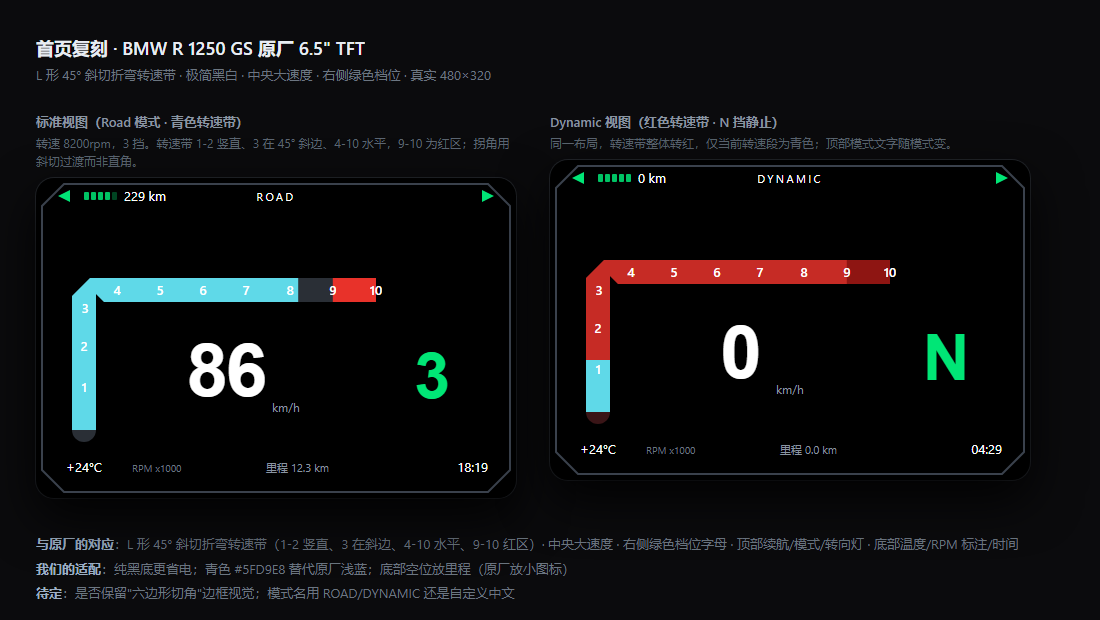
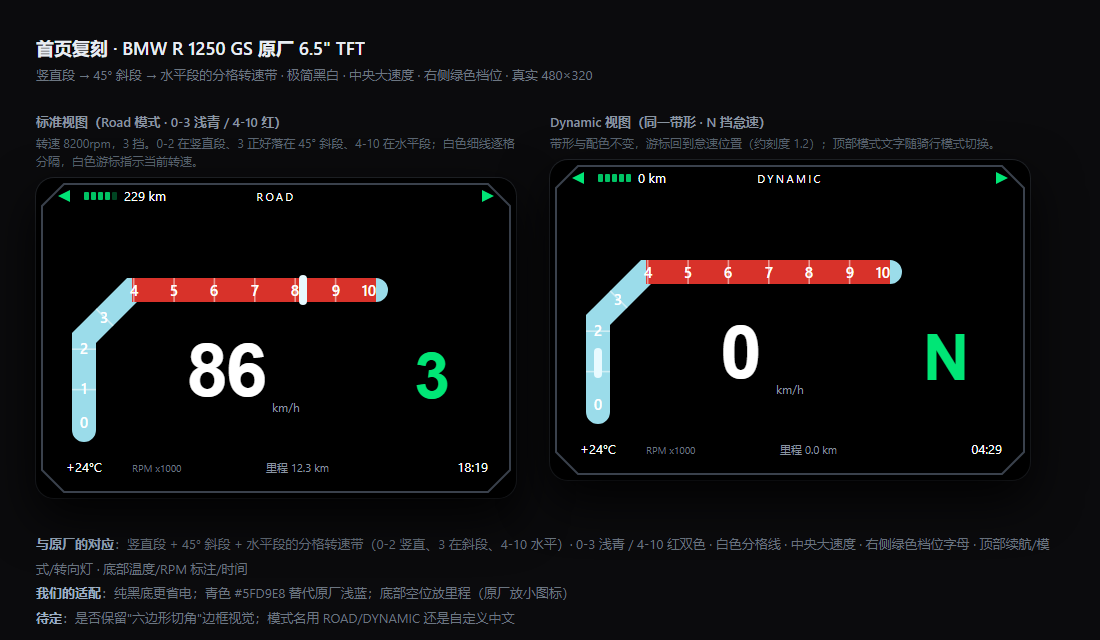
docs: 更新 BMW R 1250 GS 仪表 mockup 设计说明与实现

diff --git a/mockup/dash-gs.html b/mockup/dash-gs.html
@@ -30,14 +30,14 @@
 </head>
 <body>
   <h1 class="page-title">首页复刻 · BMW R 1250 GS 原厂 6.5" TFT</h1>
-  <p class="page-sub">L 形 45° 斜切折弯转速带 · 极简黑白 · 中央大速度 · 右侧绿色档位 · 真实 480×320</p>
+  <p class="page-sub">竖直段 → 45° 斜段 → 水平段的分格转速带 · 极简黑白 · 中央大速度 · 右侧绿色档位 · 真实 480×320</p>
 
   <div class="stage">
 
     <!-- ========== 标准视图 ========== -->
     <div class="frame">
-      <h2>标准视图（Road 模式 · 青色转速带）</h2>
-      <p>转速 8200rpm，3 挡。转速带 1-2 竖直、3 在 45° 斜边、4-10 水平，9-10 为红区；拐角用斜切过渡而非直角。</p>
+      <h2>标准视图（Road 模式 · 0-3 浅青 / 4-10 红）</h2>
+      <p>转速 8200rpm，3 挡。0-2 在竖直段、3 正好落在 45° 斜段、4-10 在水平段；白色细线逐格分隔，白色游标指示当前转速。</p>
       <div class="screen">
         <svg viewBox="0 0 480 320" width="480" height="320">
           <!-- 切角屏幕边框 -->
@@ -61,44 +61,42 @@
           <!-- 右转向灯 -->
           <path d="M458 18 L446 12 V24 Z" fill="#00E676"/>
 
-          <!-- ===== L 形转速带（外拐角真实切出 45° 斜角） ===== -->
-          <defs>
-            <!-- 带形多边形：(36,118)→(54,100) 为外角 45° 斜切；(68,124)→(60,116) 为内角斜切 -->
-            <clipPath id="bandClipA">
-              <path d="M36 252 L36 118 L54 100 L340 100 L340 124 L68 124 L60 116 L60 252 Z"/>
-              <circle cx="48" cy="252" r="12"/>
-            </clipPath>
-          </defs>
-          <!-- 底色带 -->
-          <path d="M36 252 L36 118 L54 100 L340 100 L340 124 L68 124 L60 116 L60 252 Z" fill="#2A2F36"/>
-          <circle cx="48" cy="252" r="12" fill="#2A2F36"/>
-          <!-- 当前转速进度 8200/10000 = 82% × 432 ≈ 354.2，裁切到斜切带形内 -->
-          <g clip-path="url(#bandClipA)">
-            <path d="M48 252 L48 112 L340 112" fill="none" stroke="#5FD9E8"
-                  stroke-width="24" stroke-dasharray="354.2 432"/>
+          <!-- ===== L 形转速带：竖直段 → 45° 斜段 → 水平段 ===== -->
+          <!-- 路径：竖直 y252→160 (92) + 斜段 (48,160)→(96,112) (67.9) + 水平 x96→340 (244)，总长 403.9 -->
+          <!-- 底层：0-3 浅青段 -->
+          <path d="M48 252 L48 160 L96 112 L340 112" fill="none" stroke="#9BDCEA"
+                stroke-width="24" stroke-linecap="round" stroke-linejoin="miter"/>
+          <!-- 4-10 红色段：从 s=159.9（刻度 4）起铺红 -->
+          <path d="M48 252 L48 160 L96 112 L340 112" fill="none" stroke="#D8322A"
+                stroke-width="24" stroke-linejoin="miter" stroke-dasharray="0 159.9 244 0"/>
+          <!-- 白色分格线（垂直于带子方向，逐格切开） -->
+          <g stroke="#FFFFFF" stroke-width="1.6" opacity=".5">
+            <line x1="36" y1="211.6" x2="60" y2="211.6"/>
+            <line x1="36" y1="171.2" x2="60" y2="171.2"/>
+            <line x1="60.1" y1="130.9" x2="77.1" y2="147.9"/>
+            <line x1="97.7" y1="100" x2="97.7" y2="124"/>
+            <line x1="138.1" y1="100" x2="138.1" y2="124"/>
+            <line x1="178.4" y1="100" x2="178.4" y2="124"/>
+            <line x1="218.8" y1="100" x2="218.8" y2="124"/>
+            <line x1="259.2" y1="100" x2="259.2" y2="124"/>
+            <line x1="299.6" y1="100" x2="299.6" y2="124"/>
           </g>
-          <!-- 红区 9000-10000（刻度 9→10） -->
-          <g clip-path="url(#bandClipA)">
-            <path d="M296.8 112 L340 112" fill="none" stroke="#E8322A" stroke-width="24"/>
+          <!-- 刻度数字 0-10 -->
+          <g fill="#FFFFFF" font-size="15" text-anchor="middle" font-weight="600">
+            <text x="48" y="250">0</text>
+            <text x="48" y="216">1</text>
+            <text x="48" y="176">2</text>
+            <text x="68" y="145">3</text>
+            <text x="98" y="118">4</text>
+            <text x="138" y="118">5</text>
+            <text x="178" y="118">6</text>
+            <text x="219" y="118">7</text>
+            <text x="259" y="118">8</text>
+            <text x="300" y="118">9</text>
+            <text x="333" y="118">10</text>
           </g>
-
-          <!-- 刻度数字 1-2 竖直段 -->
-          <g fill="#FFFFFF" font-size="13" text-anchor="middle" font-weight="600">
-            <text x="48" y="214">1</text>
-            <text x="48" y="173">2</text>
-          </g>
-          <!-- 刻度 3 位于斜角过渡区 -->
-          <text x="49" y="135" fill="#FFFFFF" font-size="13" text-anchor="middle" font-weight="600">3</text>
-          <!-- 刻度数字 4-10 水平段 -->
-          <g fill="#FFFFFF" font-size="13" text-anchor="middle" font-weight="600">
-            <text x="81" y="117">4</text>
-            <text x="124" y="117">5</text>
-            <text x="167" y="117">6</text>
-            <text x="210" y="117">7</text>
-            <text x="254" y="117">8</text>
-            <text x="297" y="117">9</text>
-            <text x="340" y="117">10</text>
-          </g>
+          <!-- 当前转速指示（8200rpm ≈ 刻度 8.2，x≈267） -->
+          <rect x="263" y="97" width="8" height="30" rx="4" fill="#E8FAFF"/>
 
           <!-- ===== 中央速度 ===== -->
           <text x="190" y="218" text-anchor="middle" fill="#FFFFFF"
@@ -121,8 +119,8 @@
 
     <!-- ========== Dynamic 视图 ========== -->
     <div class="frame">
-      <h2>Dynamic 视图（红色转速带 · N 挡静止）</h2>
-      <p>同一布局，转速带整体转红，仅当前转速段为青色；顶部模式文字随模式变。</p>
+      <h2>Dynamic 视图（同一带形 · N 挡怠速）</h2>
+      <p>带形与配色不变，游标回到怠速位置（约刻度 1.2）；顶部模式文字随骑行模式切换。</p>
       <div class="screen">
         <svg viewBox="0 0 480 320" width="480" height="320">
           <path d="M28 6 H452 L474 28 V292 L452 314 H28 L6 292 V28 Z"
@@ -141,36 +139,37 @@
           <text x="240" y="23" text-anchor="middle" fill="#FFFFFF" font-size="11" letter-spacing="2.4">DYNAMIC</text>
           <path d="M458 18 L446 12 V24 Z" fill="#00E676"/>
 
-          <!-- 转速带：同一套 45° 斜切带形，Dynamic 视图整体偏红 -->
-          <defs>
-            <clipPath id="bandClipB">
-              <path d="M36 252 L36 118 L54 100 L340 100 L340 124 L68 124 L60 116 L60 252 Z"/>
-              <circle cx="48" cy="252" r="12"/>
-            </clipPath>
-          </defs>
-          <path d="M36 252 L36 118 L54 100 L340 100 L340 124 L68 124 L60 116 L60 252 Z" fill="#3A1517"/>
-          <circle cx="48" cy="252" r="12" fill="#3A1517"/>
-          <g clip-path="url(#bandClipB)">
-            <path d="M48 252 L48 112 L340 112" fill="none" stroke="#C62B25" stroke-width="24"/>
+          <!-- 转速带：同一套竖直→45°斜段→水平结构 -->
+          <path d="M48 252 L48 160 L96 112 L340 112" fill="none" stroke="#9BDCEA"
+                stroke-width="24" stroke-linecap="round" stroke-linejoin="miter"/>
+          <path d="M48 252 L48 160 L96 112 L340 112" fill="none" stroke="#D8322A"
+                stroke-width="24" stroke-linejoin="miter" stroke-dasharray="0 159.9 244 0"/>
+          <g stroke="#FFFFFF" stroke-width="1.6" opacity=".5">
+            <line x1="36" y1="211.6" x2="60" y2="211.6"/>
+            <line x1="36" y1="171.2" x2="60" y2="171.2"/>
+            <line x1="60.1" y1="130.9" x2="77.1" y2="147.9"/>
+            <line x1="97.7" y1="100" x2="97.7" y2="124"/>
+            <line x1="138.1" y1="100" x2="138.1" y2="124"/>
+            <line x1="178.4" y1="100" x2="178.4" y2="124"/>
+            <line x1="218.8" y1="100" x2="218.8" y2="124"/>
+            <line x1="259.2" y1="100" x2="259.2" y2="124"/>
+            <line x1="299.6" y1="100" x2="299.6" y2="124"/>
           </g>
-          <!-- 当前转速段（怠速 1200 = 12% × 432 ≈ 51.8 → 竖直段 y=252→200） -->
-          <g clip-path="url(#bandClipB)">
-            <path d="M48 252 L48 200" fill="none" stroke="#5FD9E8" stroke-width="24"/>
-            <path d="M296.8 112 L340 112" fill="none" stroke="#8E1512" stroke-width="24"/>
+          <g fill="#FFFFFF" font-size="15" text-anchor="middle" font-weight="600">
+            <text x="48" y="250">0</text>
+            <text x="48" y="216">1</text>
+            <text x="48" y="176">2</text>
+            <text x="68" y="145">3</text>
+            <text x="98" y="118">4</text>
+            <text x="138" y="118">5</text>
+            <text x="178" y="118">6</text>
+            <text x="219" y="118">7</text>
+            <text x="259" y="118">8</text>
+            <text x="300" y="118">9</text>
+            <text x="333" y="118">10</text>
           </g>
-
-          <g fill="#FFFFFF" font-size="13" text-anchor="middle" font-weight="600">
-            <text x="48" y="214">1</text>
-            <text x="48" y="173">2</text>
-            <text x="49" y="135">3</text>
-            <text x="81" y="117">4</text>
-            <text x="124" y="117">5</text>
-            <text x="167" y="117">6</text>
-            <text x="210" y="117">7</text>
-            <text x="254" y="117">8</text>
-            <text x="297" y="117">9</text>
-            <text x="340" y="117">10</text>
-          </g>
+          <!-- 当前转速指示（怠速 1200rpm ≈ 刻度 1.2，y≈203） -->
+          <rect x="44" y="188" width="8" height="30" rx="4" fill="#E8FAFF"/>
 
           <text x="190" y="218" text-anchor="middle" fill="#FFFFFF"
                 font-size="74" font-weight="700" font-family="Arial, Helvetica, sans-serif"
@@ -191,7 +190,7 @@
   </div>
 
   <div class="legend">
-    <b>与原厂的对应</b>：L 形 45° 斜切折弯转速带（1-2 竖直、3 在斜边、4-10 水平、9-10 红区）· 中央大速度 · 右侧绿色档位字母 · 顶部续航/模式/转向灯 · 底部温度/RPM 标注/时间<br>
+    <b>与原厂的对应</b>：竖直段 + 45° 斜段 + 水平段的分格转速带（0-2 竖直、3 在斜段、4-10 水平）· 0-3 浅青 / 4-10 红双色 · 白色分格线 · 中央大速度 · 右侧绿色档位字母 · 顶部续航/模式/转向灯 · 底部温度/RPM 标注/时间<br>
     <b>我们的适配</b>：纯黑底更省电；青色 #5FD9E8 替代原厂浅蓝；底部空位放里程（原厂放小图标）<br>
     <b>待定</b>：是否保留"六边形切角"边框视觉；模式名用 ROAD/DYNAMIC 还是自定义中文
   </div>
